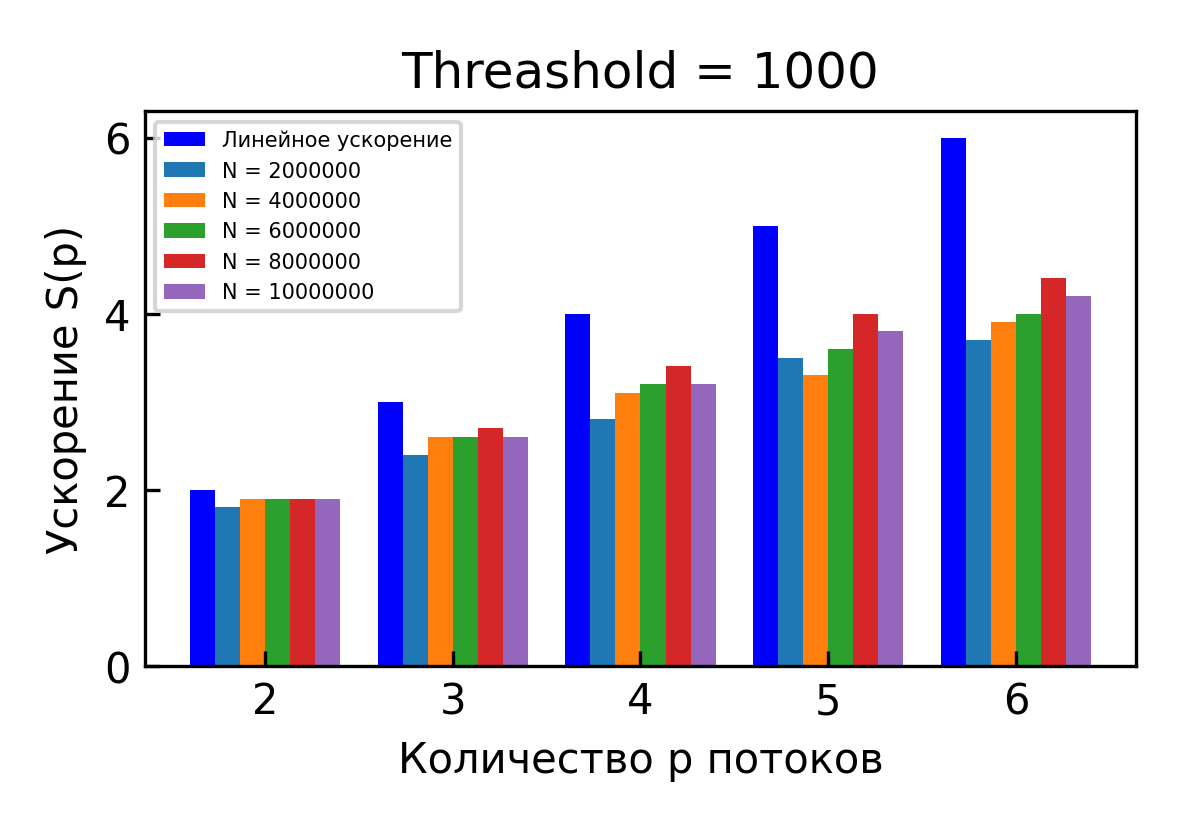
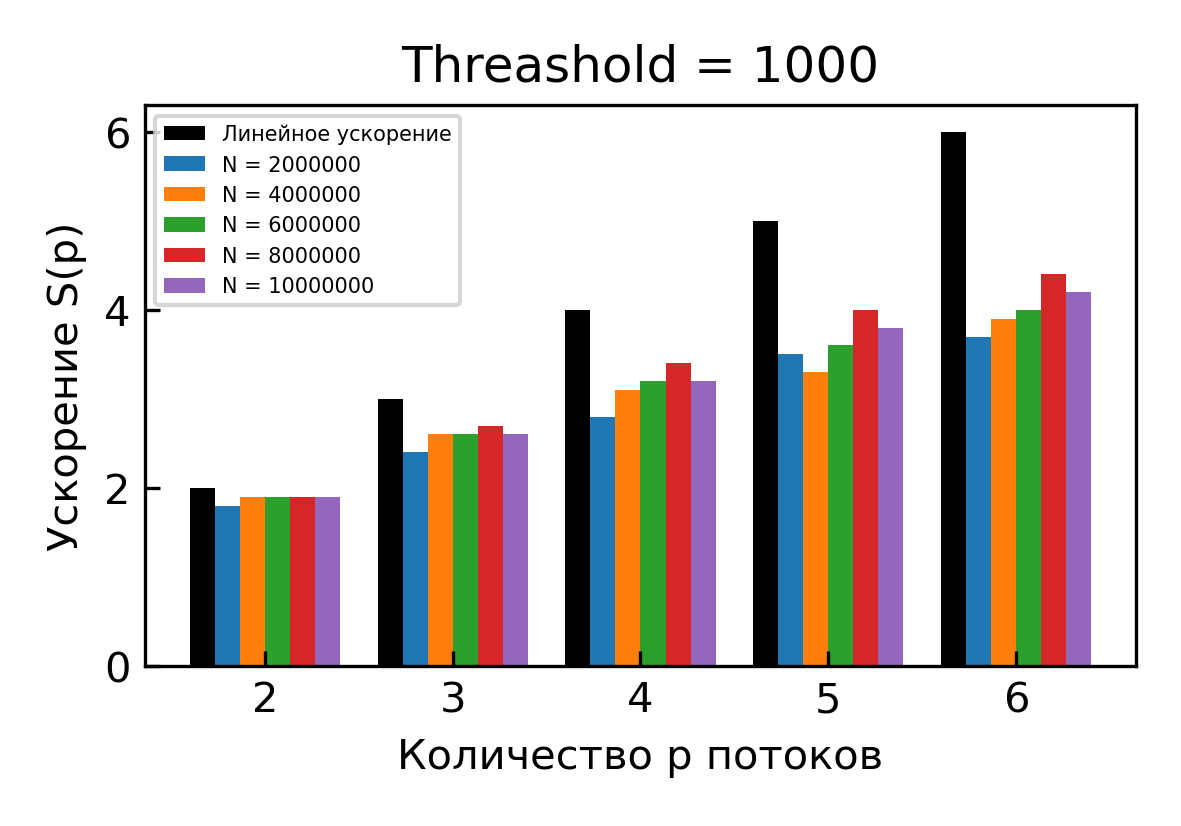
..

diff --git a/pct-lab-5/chart.py b/pct-lab-5/chart.py
@@ -50,7 +50,7 @@ def draw(filenames, labels, title, filename):
             first_iteration = False
         else:
             lbl = ""
-        ax.bar(thrd_cur + p_offset, thrd_cur, label = lbl, color = "blue", width = wdh);
+        ax.bar(thrd_cur + p_offset, thrd_cur, label = lbl, color = "black", width = wdh);
         thrd_cur += thrd_step
     
     # p_offset += wdh * 0.5

diff --git a/pct-lab-5/parallel.cpp b/pct-lab-5/parallel.cpp
@@ -73,9 +73,6 @@ int main(int argc, char** argv)
     }
     t = omp_get_wtime() - t;
     std::cout << "Time: " << std::fixed << std::setprecision(9) << t << '\n';
-    // for (const auto& i : v)
-    //     std::cout << i << ' ';
-    // std::cout << '\n';
 
     return 0;
 }
